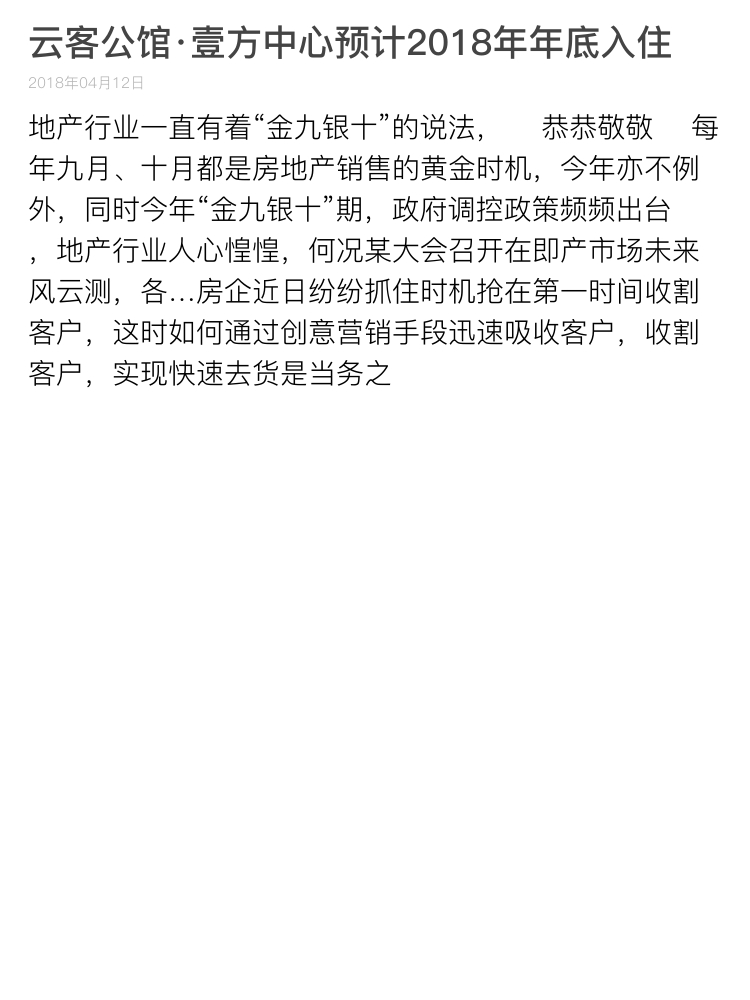
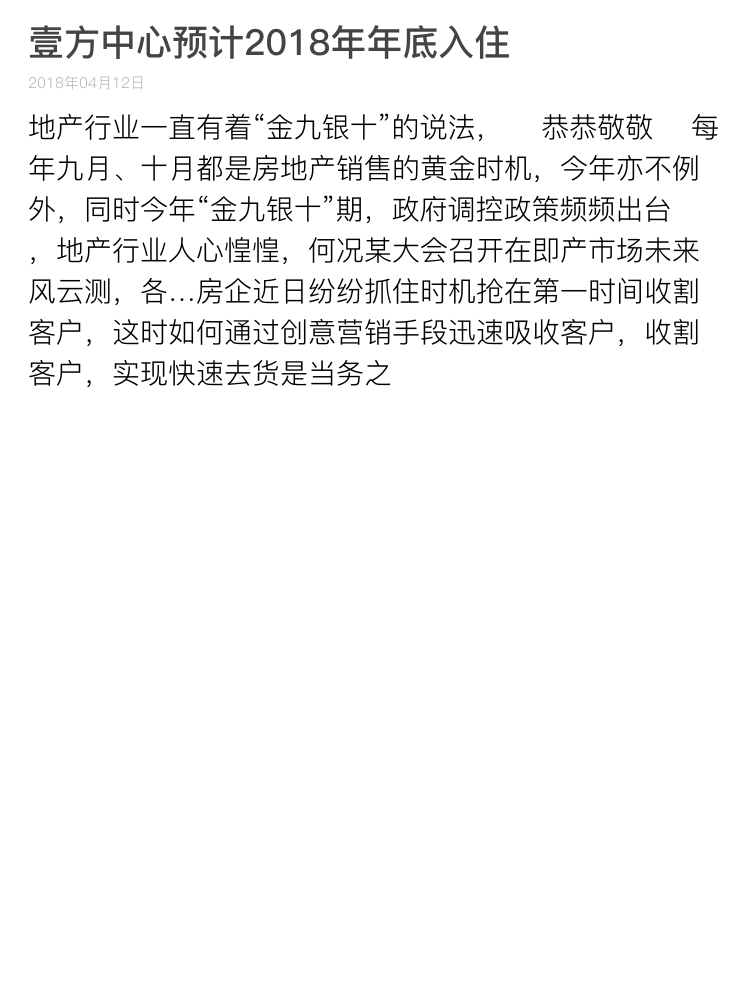
change doc

Changed region(s): [[0.0307, 0.0, 0.8893, 0.062]]

diff --git a/examples/example2/example.html b/examples/example2/example.html
@@ -26,7 +26,7 @@
     </head>
     <body>
         <div class="content">
-            <div class="project_name">云客公馆·壹方中心预计2018年年底入住</div>
+            <div class="project_name">壹方中心预计2018年年底入住</div>
             <div class="date">2018年04月12日</div>
             <div class="txt">
                 <span>地产行业一直有着“金九银十”的说法，</span> 恭恭敬敬  <span>每年九月、十月都是房地产销售的黄金时机，今年亦不例外，同时今年“金九银十”期，政府调控政策频频出台，地产行业人心惶惶，何况某大会召开在即产市场未来风云测，各…房企近日纷纷抓住时机抢在第一时间收割客户，这时如何通过创意营销手段迅速吸收客户，收割客户，实现快速去货是当务之</span>
